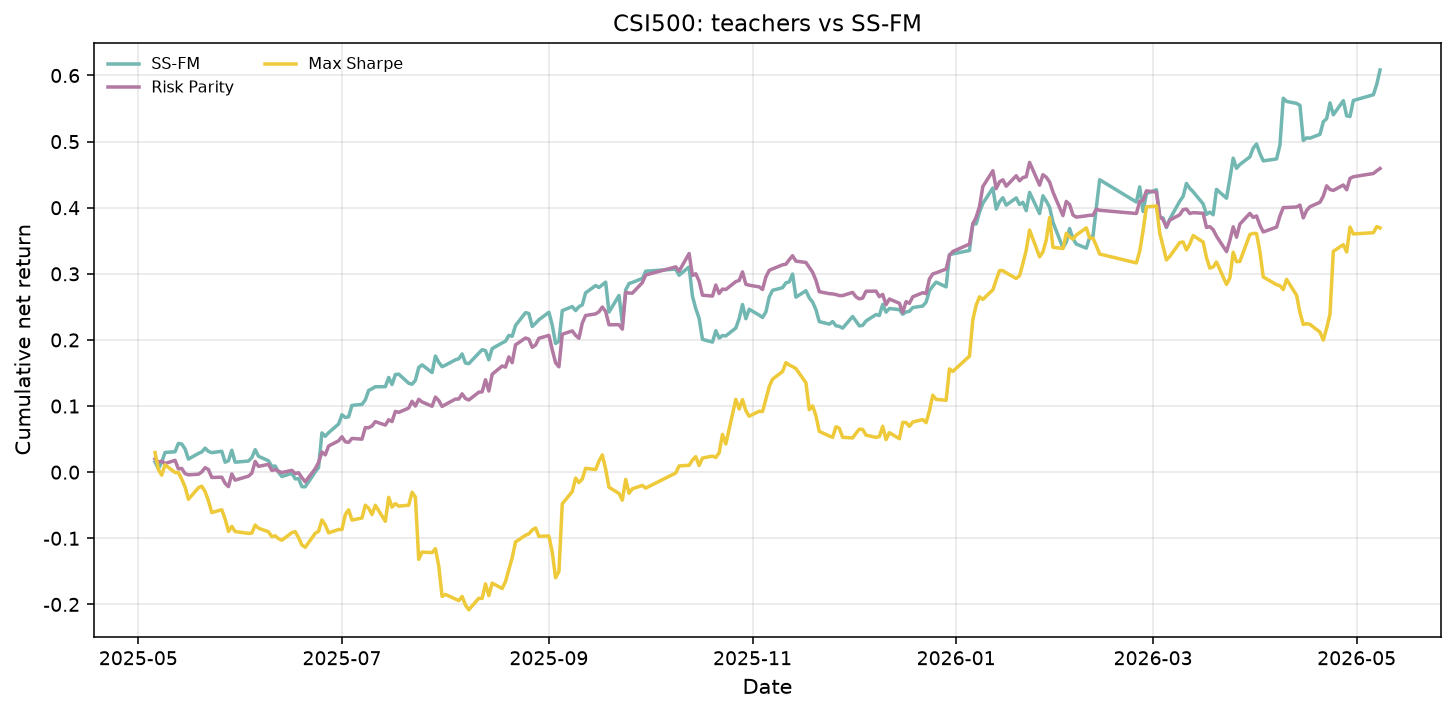
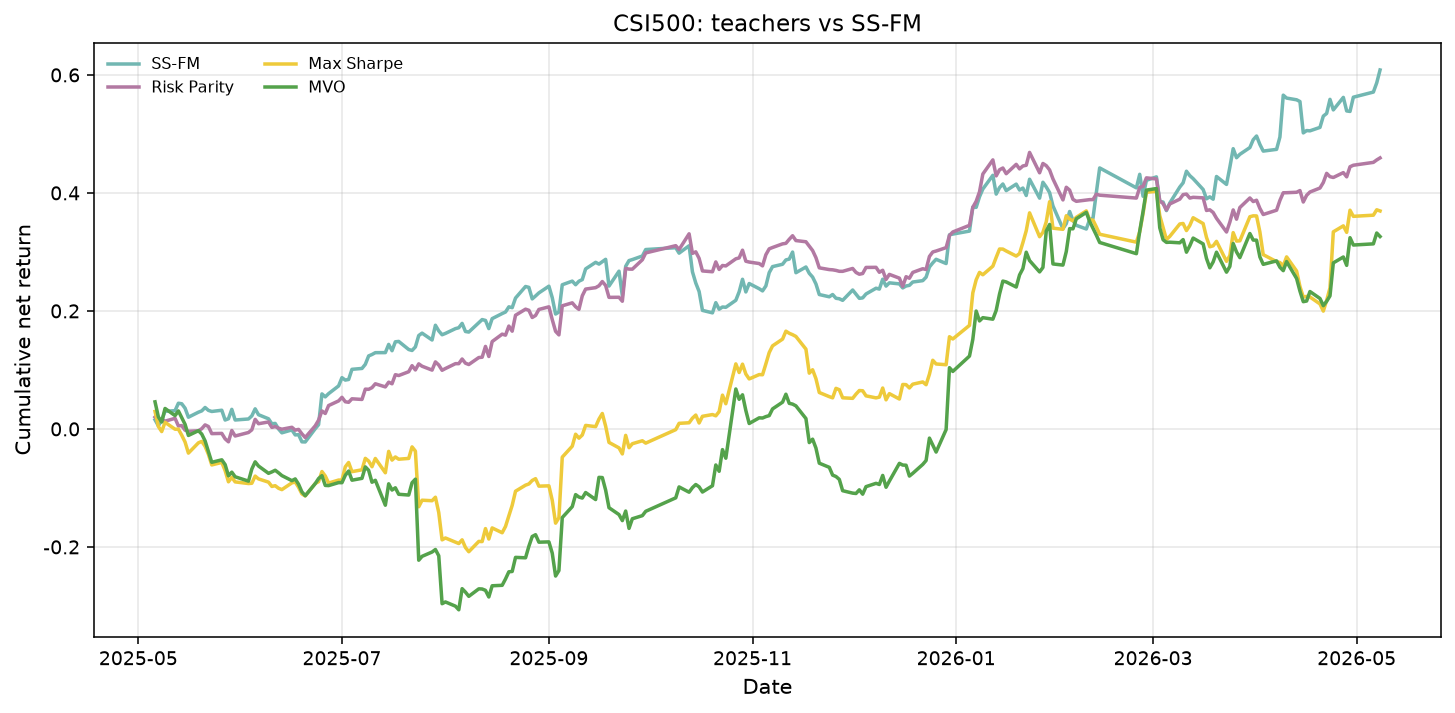
Fix MVO legend in English teachers-vs-SS-FM figure.

diff --git a/experiments/build_paper_figures_en.py b/experiments/build_paper_figures_en.py
@@ -102,7 +102,7 @@ def clean_label(name: str) -> str:
         return "Risk Parity"
     if "max" in raw and "sharpe" in raw:
         return "Max Sharpe"
-    if re.search(r"\bmvo\b", raw):
+    if re.search(r"(^|[^a-z])mvo([^a-z]|$)", raw) or raw.endswith("_mvo") or "_mvo_" in raw or raw.startswith("mvo"):
         return "MVO"
     if "diffusion" in raw:
         return "Diffusion"
